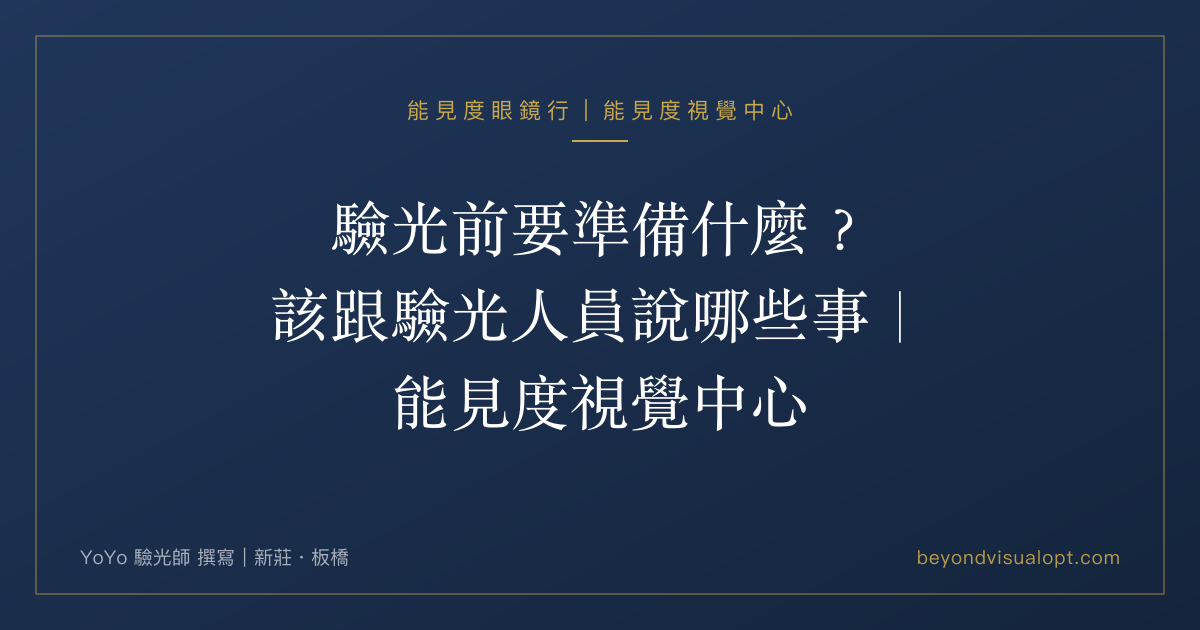
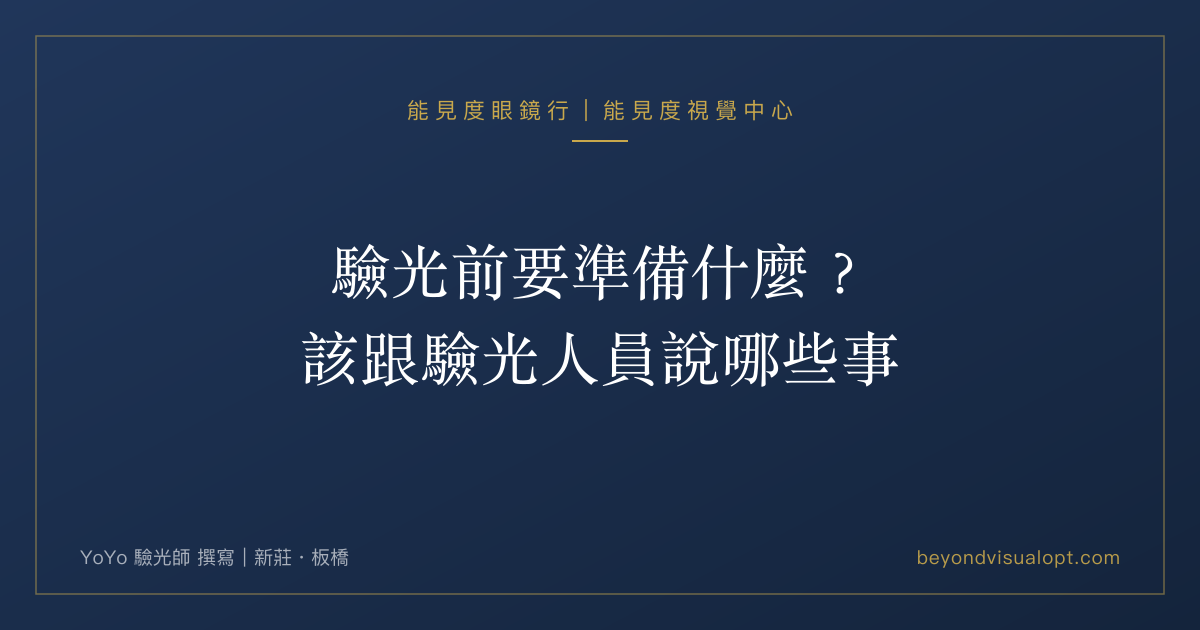
驗光分類第 1 步：9 篇調標題（FAQ 改 ### Q，6 篇共 24 題 FAQ 首度進 schema）＋已上線錯誤急修——兒童法規句補施行細則 §6 首次配鏡須醫師確診（7 頁）、拿掉貶損眼科句與暗示門市量眼壓視野、健保列更正、病名改功能描述、YoYo 親自執行句、全站「免費回店調整」改「取件後的鏡架調整不另外收費」、法條誤引更正（證書字號揭示 §19、眼鏡行不能驗光 §9）、/faq/ 兒童題拿掉離焦效能暗示。「與眼科醫師協同」5 處待老闆確認未動。編審🟡→法務🟡→交叉快篩🟢

Changed region(s): [[0.2158, 0.3016, 0.7708, 0.6937]]

diff --git a/src/content/blog/eye-exam-preparation-tips.md b/src/content/blog/eye-exam-preparation-tips.md
@@ -1,5 +1,5 @@
 ---
-title: "驗光前要準備什麼？該跟驗光人員說哪些事｜能見度視覺中心"
+title: "驗光前要準備什麼？該跟驗光人員說哪些事"
 date: 2026-07-21
 tag: "驗光知識"
 excerpt: "一次好的驗光，一半靠驗光人員的專業，一半靠你把資訊講清楚。帶舊眼鏡、說清楚你每天怎麼用眼、把不舒服具體描述出來——這些準備，讓驗光從「猜」變成「對症」。新莊、板橋能見度視覺中心，附上驗光前檢查清單，教你怎麼當一個「好被驗」的顧客。"
@@ -14,7 +14,7 @@ keywords: "驗光前準備,驗光注意事項,驗光要帶什麼,驗光前檢查
 
 所以這篇把「怎麼當一個好被驗的顧客」講白。花五分鐘做點準備，你這次驗光的品質，會差很多。
 
-### 驗光前檢查清單
+## 驗光前檢查清單
 
 | 類別 | 準備什麼 |
 |---|---|
@@ -24,13 +24,13 @@ keywords: "驗光前準備,驗光注意事項,驗光要帶什麼,驗光前檢查
 | 隱形眼鏡族 | 驗光當天的配戴狀況，最好提前取下讓角膜休息一段時間 |
 | 特別提醒 | 慢性病、近期眼睛治療史、正在點的眼藥，主動告知 |
 
-## 帶什麼：舊眼鏡就是你的「病歷」
+## 驗光要帶什麼：舊眼鏡與隱形眼鏡度數盒
 
-**把現在戴的眼鏡帶來，尤其是那副「覺得不好戴」的。** 驗光人員把它放上儀器一驗，馬上知道你現在的度數、跟你眼睛現況差多遠、上一副是欠矯還是過矯。這等於直接讀到你的視覺病歷，比從零開始省事、也準得多，連你嫌棄想淘汰的那副都值得帶，因為「哪裡不對」本身就是線索。
+**把現在戴的眼鏡帶來，尤其是那副「覺得不好戴」的。** 驗光人員把它放上儀器一驗，馬上知道你現在的度數、跟你眼睛現況差多遠、上一副是欠矯還是過矯。這等於直接讀到你上一副眼鏡的實際度數，比從零開始省事、也準得多，連你嫌棄想淘汰的那副都值得帶，因為「哪裡不對」本身就是線索。
 
 **隱形眼鏡族，把度數盒也帶上。** 隱形眼鏡和眼鏡的度數不能直接互抄（因為頂點距離不同，貼在角膜上和掛在鼻樑前需要的度數不一樣），但你現在戴的隱形度數，仍是很好的參考起點。
 
-## 想清楚也說清楚：你的「用眼場景」
+## 跟驗光人員說清楚你的用眼場景
 
 這是最多人忽略、卻最影響配鏡方向的一塊。同樣的度數，一個整天盯螢幕的人和一個常開車跑外務的人，最適合的鏡片設計完全不同。所以請具體地說：
 
@@ -39,9 +39,9 @@ keywords: "驗光前準備,驗光注意事項,驗光要帶什麼,驗光前檢查
 - **閱讀與近距離**：看書、看手機、做手工，這些近距離活動多不多？
 - **最想解決的那一件事**：如果這副眼鏡只能改善一個情境，你最想解決哪個？
 
-講得越具體越好。「我下午看電腦特別累、字會有點糊」，比「我眼睛不太舒服」有用一百倍。完整驗光的第一步就是這個：先問診、再量測，度數才配得對生活。想看完整驗光每一步在忙什麼，可以參考：[配眼鏡前需要先看眼科嗎？](/blog/eye-exam-before-glasses/)裡對驗光流程的說明。
+講得越具體越好。「我下午看電腦特別累、字會有點糊」，比「我眼睛不太舒服」有用一百倍。完整驗光的第一步就是這個：先問診、再量測，度數才配得對生活。想看完整驗光每一步在忙什麼，可以參考：[驗光 10 分鐘和 1 小時，差在哪裡？](/blog/eye-exam-duration-difference/)。
 
-## 怎麼描述「不舒服」：把感覺翻譯成線索
+## 眼睛不舒服，怎麼描述給驗光人員聽
 
 「不舒服」三個字，驗光人員很難直接下手。試著把它拆得更具體，用這幾個角度描述：
 
@@ -52,32 +52,32 @@ keywords: "驗光前準備,驗光注意事項,驗光要帶什麼,驗光前檢查
 
 最後這一點特別有用。如果你發現「遮住一隻眼反而比兩眼一起看舒服」，很可能牽涉到兩眼協同的問題，而不只是單眼度數。完整驗光會特別評估雙眼視覺功能，就是為了接住這種狀況。兩眼怎麼合作、為什麼要一起評估，我們拆在這篇：[「雙眼視覺」是什麼？兩隻眼睛怎麼合作](/blog/binocular-vision/)。
 
-## 幾個要主動告知的重點
+## 驗光前要主動告知的事
 
 - **隱形眼鏡配戴者**：軟式隱形眼鏡建議驗光前提早取下、讓角膜休息一段時間，硬式所需時間更長；當天的配戴狀況也請主動說，量測才準。還有一點要提醒，一般隱形眼鏡的驗配依《驗光人員法》有其規範：15 歲以下須於眼科醫師指導下、未滿 6 歲不得驗配。
 - **慢性病與用藥**：糖尿病等慢性病、正在點的眼藥、近期眼睛的治療或手術史，請主動告知。這些會影響我們的判斷與分流。
 - **警訊要立刻講**：如果你最近有視力突然變差、看東西有黑影或閃光、眼睛紅腫疼痛，這些不是配鏡能處理的範疇，請儘速至眼科就醫，別等驗光。
-- **孩子的驗光**：依《驗光人員法》，15 歲以下學童的驗光應於眼科醫師指導下進行；未滿 6 歲的幼童請先至眼科由醫師評估。帶孩子來之前，先想好平常看遠看近的狀況、學校座位、用 3C 的時間，這些都是有用的資訊。
+- **孩子的驗光**：未滿 6 歲的幼童，驗光人員依《驗光人員法》不得為其驗光，請由眼科醫師檢查；6～15 歲第一次驗光配鏡，須先經醫師確診為非假性近視，之後的驗光依法於眼科醫師指導下進行；超過 15 歲可以直接驗光。帶孩子來之前，先想好平常看遠看近的狀況、學校座位、用 3C 的時間，這些都是有用的資訊。
 
 做好這些準備，你會發現驗光變成一場「對話」，而不是被動受檢。而一位好的驗光人員，會接住你給的每一條線索、問對下一個問題。[選好的鏡片，不如選好的驗光師](/guide/why-optometrist-matters/)，說的就是這個。
 
-## 常見問題
+## 驗光前準備常見問題
 
-**Q1：驗光前一定要帶舊眼鏡嗎？沒帶會怎樣？**
+### Q：驗光前一定要帶舊眼鏡嗎？沒帶會怎樣？
 
-強烈建議帶，尤其是你覺得不好戴的那副。舊眼鏡等於你的視覺病歷，一驗就知道你現在的度數、變化了多少、上一副哪裡不對。沒帶不是不能驗，但驗光人員少了一個重要參考，得多花時間從頭摸索。度數盒、隱形眼鏡包裝也一併帶上。
+強烈建議帶，尤其是你覺得不好戴的那副。舊眼鏡本身就是一份現成的度數參考，一驗就知道你現在的度數、變化了多少、上一副哪裡不對。沒帶不是不能驗，但驗光人員少了一個重要參考，得多花時間從頭摸索。度數盒、隱形眼鏡包裝也一併帶上。
 
-**Q2：驗光前需要讓眼睛休息嗎？**
+### Q：驗光前需要讓眼睛休息嗎？
 
 有幫助。驗光前避免長時間近距離用眼、睡眠充足，能減少睫狀肌過度緊繃造成的度數偏深。隱形眼鏡族則建議提早取下讓角膜恢復（軟式一段時間、硬式更久），當天配戴狀況也請主動說。
 
-**Q3：我不知道怎麼形容我的不舒服，怎麼辦？**
+### Q：我不知道怎麼形容我的不舒服，怎麼辦？
 
 用「什麼時候、哪種感覺、哪個情境」三個角度去拆就好。例如「下午看電腦、字會糊、還有點脹」。再加一句「遮一隻眼會不會比較舒服」，就是很有價值的線索。你不需要懂術語，只要把日常的感受具體說出來，剩下的翻譯交給驗光人員。
 
-**Q4：帶小孩驗光要準備什麼？**
+### Q：帶小孩驗光要準備什麼？
 
-先想好孩子平常看遠看近的狀況、學校座位遠近、每天用 3C 多久、有沒有瞇眼或湊很近看。這些日常觀察對評估很有幫助。同時提醒：依《驗光人員法》，15 歲以下學童的驗光應於眼科醫師指導下進行，未滿 6 歲的幼童請先至眼科由醫師評估，我們會在這個分工下協同追蹤。
+先想好孩子平常看遠看近的狀況、學校座位遠近、每天用 3C 多久、有沒有瞇眼或湊很近看。這些日常觀察對評估很有幫助。同時提醒：未滿 6 歲的幼童，驗光人員依《驗光人員法》不得為其驗光，請由眼科醫師檢查；6～15 歲第一次驗光配鏡，須先經醫師確診為非假性近視，之後的驗光依法於眼科醫師指導下進行，我們會在這個分工下協同追蹤；超過 15 歲可以直接驗光。
 
 ---
 

diff --git a/src/content/blog/same-prescription-different-feel.md b/src/content/blog/same-prescription-different-feel.md
@@ -1,5 +1,5 @@
 ---
-title: "度數一樣，為什麼兩副眼鏡戴起來差這麼多？｜能見度視覺中心"
+title: "度數一樣，為什麼兩副眼鏡戴起來差這麼多？"
 date: 2026-07-21
 tag: "驗光知識"
 excerpt: "兩副眼鏡度數欄位一模一樣，戴起來卻一副舒服、一副頭暈？因為度數只是處方紙上的一行，散光軸向、瞳距瞳高、頂點距離、傾斜角、鏡框貼合這些參數，才決定它戴在你臉上跑出什麼結果。新莊、板橋能見度視覺中心，把度數之外的變因講清楚。"
@@ -16,7 +16,7 @@ keywords: "眼鏡度數一樣不舒服,同度數眼鏡差別,配鏡參數,散光
 
 打個比方，處方紙上那行度數，比較像食譜裡的「鹽 5 克」。同樣 5 克鹽，火候、下鍋順序、鍋子大小不一樣，端出來的味道就是不同。眼鏡也是這樣，度數對了只是及格線，真正決定體感的，是度數之外那一整套配鏡參數，有沒有配對到你身上。
 
-### 30 秒速讀：度數之外，這些參數也在決定戴起來舒不舒服
+## 同度數眼鏡差在哪：度數之外的 7 個配鏡參數
 
 | 參數 | 它在管什麼 | 沒對好會怎樣 |
 |---|---|---|
@@ -28,17 +28,25 @@ keywords: "眼鏡度數一樣不舒服,同度數眼鏡差別,配鏡參數,散光
 | 基弧 | 鏡片本身的彎弧 | 換弧差太多，周邊會覺得怪 |
 | 鏡框貼合 | 鏡框在臉上戴穩、戴正 | 一直滑、一邊高，前面全部白調 |
 
-## 同一組度數，這些變因各自在搞什麼鬼
+## 配鏡參數怎麼影響戴起來的感覺
 
-**散光軸向：差幾度就有感。** 散光不只有「幾度」，還有「往哪個方向」。軸向就是那個方向。同樣 -1.00 的散光，軸向 90 度和 100 度是兩回事；補正的角度沒轉對，看直線會微微歪、看字會有一層說不上來的糊。兩副眼鏡如果一副軸向抓得準、一副差了十幾度，度數欄位看起來一樣，戴起來完全兩種世界。
+### 散光軸向：差幾度就有感
 
-**瞳距與瞳高：度數「對在哪」。** 每片鏡片都有一個光學中心，那是它光學表現最乾淨的一點，配鏡時要對準你的瞳孔。左右對位靠瞳距（PD），上下落點靠瞳高。對不準，視線就會從鏡片邊緣穿過去，產生稜鏡效應，大腦得多花力氣去代償。很多人「換新眼鏡總覺得哪裡怪」，光學上就是卡在這裡。想深入了解可以看這篇：[瞳距（PD）是什麼？量錯了會怎樣](/blog/pupillary-distance-pd/)。
+散光不只有「幾度」，還有「往哪個方向」。軸向就是那個方向。同樣 -1.00 的散光，軸向 90 度和 100 度是兩回事；補正的角度沒轉對，看直線會微微歪、看字會有一層說不上來的糊。兩副眼鏡如果一副軸向抓得準、一副差了十幾度，度數欄位看起來一樣，戴起來完全兩種世界。
 
-**頂點距離：鏡片離眼睛多遠。** 鏡片掛在鼻樑前、離眼球有一小段空隙，這段距離會左右你實際感受到的度數，度數越高、影響越明顯。同一張處方配在兩副落點不同的鏡框上，跑出來的有效度數可以不一樣。細節在這篇：[「頂點距離」是什麼？為什麼高度數眼鏡要算它](/blog/vertex-distance/)。
+### 瞳距與瞳高：度數對在哪
 
-**前傾角、基弧、鏡框貼合：藏在最後、卻最有感。** 鏡框往前傾幾度、鏡片本身多彎、戴在你臉上有沒有戴正戴穩，這些沒調到位，前面量得再準也會被打折。鏡框一直往下滑、一邊高一邊低，等於每天都在用「參數已經跑掉」的狀態看世界。
+每片鏡片都有一個光學中心，那是它光學表現最乾淨的一點，配鏡時要對準你的瞳孔。左右對位靠瞳距（PD），上下落點靠瞳高。對不準，視線就會從鏡片邊緣穿過去，產生稜鏡效應，大腦得多花力氣去代償。很多人「換新眼鏡總覺得哪裡怪」，光學上就是卡在這裡。想深入了解可以看這篇：[瞳距（PD）是什麼？配眼鏡量錯會怎樣](/blog/pupillary-distance-pd/)。
 
-## 一個實際情境：多焦點使用者的 2mm
+### 頂點距離：鏡片離眼睛多遠
+
+鏡片掛在鼻樑前、離眼球有一小段空隙，這段距離會左右你實際感受到的度數，度數越高、影響越明顯。同一張處方配在兩副落點不同的鏡框上，跑出來的有效度數可以不一樣。細節在這篇：[頂點距離是什麼？高度數配眼鏡為什麼要算它](/blog/vertex-distance/)。
+
+### 前傾角、基弧、鏡框貼合：藏在最後、卻最有感
+
+鏡框往前傾幾度、鏡片本身多彎、戴在你臉上有沒有戴正戴穩，這些沒調到位，前面量得再準也會被打折。鏡框一直往下滑、一邊高一邊低，等於每天都在用「參數已經跑掉」的狀態看世界。
+
+## 多焦點瞳高差 2mm，看螢幕會怎樣
 
 講個門市常見的狀況。一位每天緊盯螢幕超過 10 小時、又開始需要多焦點的上班族，兩副眼鏡度數與加入度抄起來一樣，但一副瞳高量得準、一副高了 2mm。**在多焦點上，瞳高差這 2mm，代表看近的清晰區整個往上或往下挪了一截。** 他低頭看螢幕時，剛好落在過渡帶而不是近用區，於是「明明度數對，看螢幕就是要一直找角度、下午特別累」。這不是度數問題，是這 2mm 沒對到他每天真正在用的那個視線落點。
 
@@ -46,21 +54,21 @@ keywords: "眼鏡度數一樣不舒服,同度數眼鏡差別,配鏡參數,散光
 
 說到底，度數是驗光量出來的「答案」，但要把這個答案精準地放進你臉上這副眼鏡，靠的是配鏡端一整套個人化量測與調整。所以我們才會一直講那句話：[選好的鏡片，不如選好的驗光師](/guide/why-optometrist-matters/)，因為決定成敗的，往往是這些沒人跟你提、卻天天有感的參數。
 
-## 常見問題
+## 同度數眼鏡常見問題
 
-**Q1：兩副眼鏡度數一樣，戴起來卻差很多，是哪一副配錯了嗎？**
+### Q：兩副眼鏡度數一樣，戴起來卻差很多，是哪一副配錯了嗎？
 
 不一定是誰配錯。度數一樣只代表「處方那一行」相同，但散光軸向、瞳距、瞳高、頂點距離、前傾角、鏡框貼合這些參數不一樣，戴起來就會不一樣。與其自己猜哪副錯，不如兩副都帶來給驗光人員量一輪，比對參數差在哪，才知道舒服那副贏在哪、不舒服那副卡在哪。
 
-**Q2：我照舊眼鏡度數重配一副，為什麼反而不習慣？**
+### Q：我照舊眼鏡度數重配一副，為什麼反而不習慣？
 
 因為你「照抄」的只有度數，沒抄到舊眼鏡那一整套配戴參數。新鏡框大小、形狀、戴在臉上的位置都變了，瞳高、頂點距離、前傾角跟著改變，同一組度數落在新鏡框上，體感自然不同。所以重配一副眼鏡，配鏡端的量測真的省不得。
 
-**Q3：度數越高，是不是這些參數越重要？**
+### Q：度數越高，是不是這些參數越重要？
 
 是的。頂點距離、瞳距的偏差，都會隨度數升高而被放大。低度數時稍微不準你可能沒感覺，度數一高，同樣的偏差馬上有感。所以高度數族群對配鏡參數的精準度特別敏感，也特別值得找流程完整的驗光人員把每個參數量準。
 
-**Q4：這些參數我自己量得出來嗎？**
+### Q：這些參數我自己量得出來嗎？
 
 不建議自己量。瞳距、瞳高、頂點距離、前傾角這些，都要在你選定鏡框、把鏡框戴到平常習慣的位置之後，由驗光人員配合實際配戴狀態量測，才反映得出真實使用狀況。你要做的，是把鏡框戴到你平常會戴的位置，讓量測貼近日常。
 

diff --git a/src/content/blog/eye-strain-see-doctor.md b/src/content/blog/eye-strain-see-doctor.md
@@ -10,7 +10,7 @@ keywords: "眼睛痠痛掛眼科,眼睛疲勞驗光,新莊驗光,板橋配眼鏡
 
 ## 眼睛痠痛疲勞，先分流：有這些警訊請掛眼科，沒有的話驗光所幫你找原因
 
-先把話講在前頭。眼睛痠、脹、累，如果同時出現紅腫、疼痛、視力突然變差、看東西有黑影或閃光，這些是身體在提醒你「該看醫師了」，請儘速至眼科就醫，別拖。但如果只是「盯了一整天螢幕、傍晚眼睛又痠又澀、只想閉起來休息」這種，通常跟眼睛的健康沒有直接關係，而是視覺在「過勞」。這種狀況，來驗光所做一次完整視覺評估，多半能把原因找出來。
+先把話講在前頭。眼睛痠、脹、累，如果同時出現紅腫、疼痛、視力突然變差、看東西有黑影或閃光，這些是身體在提醒你「該看醫師了」，請儘速至眼科就醫，別拖。但如果只是「盯了一整天螢幕、傍晚眼睛又痠又澀、只想閉起來休息」這種，未必是眼睛生病，也可能是視覺端的負擔太重。這種狀況，可以先來驗光所做一次完整視覺評估，從視覺端找原因。
 
 先講清楚我們是誰：能見度是合法立案的驗光所（比泱驗光所・能見度驗光所），不是眼科診所，沒有醫師駐診，也不做疾病的診斷與治療。我們能做的，就是把「你為什麼一用眼就累」這件事，從視覺的角度拆開來看。
 
@@ -25,25 +25,25 @@ keywords: "眼睛痠痛掛眼科,眼睛疲勞驗光,新莊驗光,板橋配眼鏡
 | 看遠看近切換吃力、傍晚特別容易累 | 可到驗光所做完整視覺評估 |
 | 換了新眼鏡反而更容易累、頭暈 | 可到驗光所檢查度數與配鏡參數 |
 
-眼睛用久了會痠，很多人以為「累了休息一下就好」，但如果天天都這樣、休息也沒改善，背後常常有幾個視覺端的原因：度數跟現在的用眼需求對不上（配鏡時看遠很準，但你整天在看近）、雙眼協調在硬撐（兩眼對焦與聚合的分工出了小狀況）、或是老花悄悄開始、近距離越看越吃力。這些都不是病，是視覺條件的問題，剛好就是驗光人員的守備範圍。
+眼睛用久了會痠，很多人以為「累了休息一下就好」，但如果天天都這樣、休息也沒改善，背後常常有幾個視覺端的原因：度數跟現在的用眼需求對不上（配鏡時看遠很準，但你整天在看近）、雙眼協調在硬撐（兩眼對焦與聚合的分工出了小狀況）、或是老花悄悄開始、近距離越看越吃力。這些屬於視覺條件的範圍，剛好是驗光人員可以評估的；痠澀一直不改善，或懷疑是眼睛疾病，請給眼科醫師檢查。
 
-老實講：我們不「治療疲勞」，也沒有哪一副眼鏡能把疲勞「消除」掉。我們做的是評估與找原因，把你的用眼型態、度數狀況、雙眼協調量一輪，看看視覺端有沒有可以調整的地方。如果量出來一切正常、痠累的原因另有他處，或過程中發現視力異常無法有效補正，我們會依《驗光人員法》把你轉介給眼科醫師，而不是硬留你配眼鏡。告訴你「這件事該給醫師看」，也是專業的一部分。
+老實講：我們不「治療疲勞」，也沒有哪一副眼鏡能把疲勞「消除」掉。我們做的是評估與找原因，把你的用眼型態、度數狀況、雙眼協調量一輪，看看視覺端有沒有可以調整的地方。如果量出來一切正常、痠累的原因另有他處，或過程中發現視力異常無法有效補正，我們會依《驗光人員法》把你轉介給眼科醫師，而不是硬留你配眼鏡。
 
-## 常見問題
+## 眼睛痠痛疲勞常見問題
 
-**Q1. 眼睛痠痛，一定要先看眼科嗎？**
+### Q：眼睛痠痛，一定要先看眼科嗎？
 
-看有沒有警訊。如果痠痛同時伴隨紅腫、明顯疼痛、分泌物、畏光，或視力突然變差，請直接掛眼科，這些屬於眼睛疾病的範疇，需要醫師診斷。如果只是長時間用眼後的痠澀疲勞、沒有上述狀況，可以先來驗光所做完整視覺評估，從度數與雙眼協調著手找原因。真的拿不準，先透過 LINE 描述狀況，我們會誠實告訴你該去哪。
+看有沒有警訊。如果痠痛同時伴隨紅腫、明顯疼痛、分泌物、畏光，或視力突然變差，請直接掛眼科，這些屬於眼睛疾病的範疇，需要醫師診斷。如果只是長時間用眼後的痠澀疲勞、沒有上述狀況，可以先來驗光所做完整視覺評估，從度數與雙眼協調著手找原因。真的拿不準，先透過 LINE 描述狀況，我們幫你判斷先去哪一邊。
 
-**Q2. 驗光所能幫我的眼睛疲勞做什麼？**
+### Q：驗光所能幫我的眼睛疲勞做什麼？
 
 我們不做治療，也不會宣稱哪一副眼鏡能把疲勞消掉。驗光人員做的是評估與找原因：量度數、看用眼習慣、檢查雙眼協調，看看視覺端有沒有可以調整的地方。有時候是度數該更新，有時候是用眼距離配不上鏡片設計。把配鏡參數調對，用起來自然比較不吃力，但那是把視覺條件配對好，不是治療。
 
-**Q3. 我常盯螢幕，眼睛痠是正常的嗎？需要處理嗎？**
+### Q：我常盯螢幕，眼睛痠是正常的嗎？需要處理嗎？
 
 短時間用眼後稍微痠、休息一下就好，是常見的。但如果每天固定痠、休息也不太緩解，甚至影響工作，就值得做一次視覺評估——尤其是長時間看近的工作型態，度數與雙眼協調的細節很容易被忽略。評估不代表一定要配眼鏡，我們也可能只是提醒你調整用眼習慣與距離。
 
-**Q4. 檢查後發現不是度數問題，你們會怎麼做？**
+### Q：檢查後發現不是度數問題，你們會怎麼做？
 
 如果量完發現度數正常、痠累的原因不在視覺端，或視力異常無法用鏡片有效補正，我們會依《驗光人員法》建議轉介眼科醫師做進一步檢查。驗光所的責任不只是幫你配一副眼鏡，也包括在該就醫的時候，誠實把你導向對的門。
 

diff --git a/src/content/blog/eye-exam-before-glasses.md b/src/content/blog/eye-exam-before-glasses.md
@@ -24,10 +24,11 @@ keywords: "配眼鏡要先看眼科嗎,配眼鏡前檢查,驗光所還是眼科,
 
 | 你的情況 | 建議 | 說明 |
 |---------|------|------|
-| 成人、度數變了想換一副眼鏡 | 可直接來驗光所 | 單純屈光問題，完整驗光即可 |
+| 超過 15 歲、度數變了想換一副眼鏡 | 可直接來驗光所 | 單純屈光問題，完整驗光即可 |
 | 長時間看螢幕想做視覺評估、配副合適的眼鏡 | 可直接來驗光所 | 視覺習慣分析與驗配 |
-| 6 歲以上學童的視力評估與度數追蹤 | 可來驗光所 | 過程中發現異常會建議轉介眼科 |
-| **未滿 6 歲**的幼童第一次檢查視力 | 請先至眼科 | 依法屬醫療評估，由眼科醫師執行 |
+| 6～15 歲學童第一次驗光配鏡 | 請先至眼科 | 須先經醫師確診為非假性近視 |
+| 6～15 歲學童、已經配過眼鏡 | 可來驗光所 | 依法於眼科醫師指導下驗光；過程中發現異常會建議轉介眼科 |
+| **未滿 6 歲**的幼童要驗光配鏡 | 請先至眼科 | 驗光人員依法不得為未滿 6 歲者驗光，請由眼科醫師檢查 |
 | 近期有**眼疾治療或手術史** | 建議先回眼科 | 由醫師確認眼睛狀況已穩定 |
 | 怎麼配都看不清、**視力無法補正** | 建議先看眼科 | 可能不只是度數問題，需醫師檢查 |
 | **糖尿病等慢性病**、沒做過眼底追蹤 | 建議先至眼科 | 眼底追蹤可能需散瞳，屬醫療行為，請洽眼科 |
@@ -40,7 +41,7 @@ keywords: "配眼鏡要先看眼科嗎,配眼鏡前檢查,驗光所還是眼科,
 
 因為配眼鏡的前提，是**眼睛本身的健康狀況已經清楚**。驗光所量的是「視覺」，度數、清晰度、雙眼怎麼協調這些；眼睛本身健不健康，那是眼科醫師在看的。這兩件事對大多數人來說本來就分開，配鏡不用先過眼科這一關。
 
-但上面那幾種情況不一樣。比方說，未滿 6 歲的幼童，依《驗光人員法》屬於醫療評估的範疇，請先由眼科醫師檢查；6 歲以上、15 歲以下學童的驗光，依法應於眼科醫師指導下進行，我們也依此與眼科醫師協同合作；有慢性病、又還沒做過眼底追蹤的人，眼底檢查（可能需要散瞳，屬醫療行為，請洽眼科）最好先讓醫師看過，我們再幫你配鏡。這不是把客人往外推，而是把該由醫師把關的部分交給醫師，你戴上眼鏡才安心。
+但上面那幾種情況不一樣。比方說，未滿 6 歲的幼童，驗光人員依《驗光人員法》不得為其驗光，請由眼科醫師檢查；6～15 歲學童第一次驗光配鏡，須先經醫師確診為非假性近視，之後的驗光依法應於眼科醫師指導下進行，我們也依此與眼科醫師協同合作；有慢性病、又還沒做過眼底追蹤的人，眼底檢查（可能需要散瞳，屬醫療行為，請洽眼科）最好先讓醫師看過，我們再幫你配鏡。這不是把客人往外推，而是把該由醫師把關的部分交給醫師，你戴上眼鏡才安心。
 
 ---
 
@@ -64,7 +65,7 @@ keywords: "配眼鏡要先看眼科嗎,配眼鏡前檢查,驗光所還是眼科,
 
 **Q：小孩要配第一副眼鏡，先看眼科還是驗光所？**
 
-未滿 6 歲的幼童，請先至眼科，由醫師進行醫療評估；6 歲以上的學童，可以來驗光所做視力評估與度數追蹤，依《驗光人員法》，15 歲以下學童的驗光應於眼科醫師指導下進行，我們也依此與眼科醫師協同追蹤，過程中發現異常，我們會建議轉由眼科醫師進一步檢查。兩邊是分工合作，不是二選一。
+未滿 6 歲的幼童，驗光人員依法不得為其驗光，請由眼科醫師檢查；6～15 歲第一次驗光配鏡，須先經醫師確診為非假性近視；之後的驗光，依《驗光人員法》15 歲以下應於眼科醫師指導下進行，我們也依此與眼科醫師協同追蹤，過程中發現異常，我們會建議轉由眼科醫師進一步檢查；超過 15 歲可以直接找驗光人員。每個年齡該先去哪，整理成對照在[小孩視力不好，先看眼科還是先配眼鏡？](/blog/child-vision-check-where/)。
 
 **Q：我有糖尿病，配眼鏡前要注意什麼？**
 

diff --git a/src/content/blog/blurry-vision-see-doctor.md b/src/content/blog/blurry-vision-see-doctor.md
@@ -1,5 +1,5 @@
 ---
-title: "眼睛突然模糊要馬上看眼科嗎？突然 vs 慢慢，能見度視覺中心教你分流"
+title: "眼睛突然模糊要馬上看眼科嗎？突然和慢慢變糊，該去的地方不一樣"
 date: 2026-07-21
 tag: "驗光知識"
 excerpt: "眼睛突然一片模糊，該衝眼科還是先驗光？關鍵在分辨「突然」還是「慢慢」。能見度視覺中心（新莊、板橋）誠實分流：突然驟降請儘速就醫，慢慢變糊多半是度數變了，來驗光所完整驗光就能釐清。"
@@ -8,7 +8,7 @@ seoDescription: "眼睛模糊分兩種：突然驟降、單眼看不清、視野
 keywords: "眼睛突然模糊,眼睛模糊要看眼科嗎,視力模糊怎麼辦,新莊驗光,板橋配眼鏡,能見度眼鏡,眼科分流"
 ---
 
-## 眼睛突然模糊，要馬上看眼科嗎？先分清楚是「突然」還是「慢慢」
+## 眼睛模糊先分兩種：突然還是慢慢
 
 先給結論：**要看是哪一種模糊。**
 
@@ -20,7 +20,7 @@ keywords: "眼睛突然模糊,眼睛模糊要看眼科嗎,視力模糊怎麼辦,
 
 ---
 
-## 30 秒對照：你的模糊該去哪？
+## 眼睛模糊對照表：哪種先就醫、哪種先驗光
 
 | 你的情況 | 該去哪 | 簡單說明 |
 |---------|--------|---------|
@@ -35,7 +35,7 @@ keywords: "眼睛突然模糊,眼睛模糊要看眼科嗎,視力模糊怎麼辦,
 
 ---
 
-## 為什麼「突然」和「慢慢」差這麼多？
+## 突然和慢慢變模糊，為什麼要分開處理
 
 差別在**時間**。
 
@@ -47,7 +47,7 @@ keywords: "眼睛突然模糊,眼睛模糊要看眼科嗎,視力模糊怎麼辦,
 
 ---
 
-## 來驗光所，我們會怎麼幫你把模糊查清楚？
+## 慢慢變模糊，驗光時會做什麼
 
 如果你的狀況落在「慢慢變糊」這一邊，一次完整驗光大致會走過這些環節：
 
@@ -59,21 +59,21 @@ keywords: "眼睛突然模糊,眼睛模糊要看眼科嗎,視力模糊怎麼辦,
 
 ---
 
-## 常見問題
+## 眼睛模糊常見問題
 
-**Q：眼睛突然一片模糊，可以先來驗光所看看嗎？**
+### Q：眼睛突然一片模糊，可以先來驗光所看看嗎？
 
 如果是突然發生、單眼驟降、或視野缺一塊，建議直接掛眼科。我們是驗光所不是眼科，這類狀況需要眼科醫師檢查與處置；判斷是配鏡問題後，再來找我們把眼鏡配好。
 
-**Q：看遠越來越模糊，是度數加深還是眼睛有問題？**
+### Q：看遠越來越模糊，是度數加深還是眼睛有問題？
 
 慢慢地看遠變吃力，多半是近視或散光度數變化，來驗光所做完整驗光就能量清楚、重新配準。若過程中發現視力無法有效補正，我們會依法建議轉介眼科做進一步檢查。
 
-**Q：一直覺得看近的東西模糊、看久了更糊，是老花嗎？**
+### Q：一直覺得看近的東西模糊、看久了更糊，是老花嗎？
 
 40 歲上下開始覺得看近吃力、手機要拿遠，是很常見的老花變化，可以來驗光所完整驗光確認並配置合適的鏡片。讓驗光人員實際量過最準；若量測中發現異常，一樣會依法轉介眼科。
 
-**Q：新莊、板橋哪裡可以做完整驗光？**
+### Q：新莊、板橋哪裡可以做完整驗光？
 
 能見度視覺中心在新莊、板橋各有一間門市，由持照驗光人員執行完整驗光與配鏡。想先確認該掛眼科還是來驗光，也可以先跟我們聊聊，我們會照實分流。
 
@@ -85,7 +85,7 @@ keywords: "眼睛突然模糊,眼睛模糊要看眼科嗎,視力模糊怎麼辦,
 
 ---
 
-所以回到最前面那個分法：突然的，先去眼科；慢慢的，可以先來驗光所。
+所以分界其實很簡單：突然的，先去眼科；慢慢的，可以先來驗光所。
 
 會這樣分，是因為「突然」通常代表眼睛裡有東西改變了，那是醫療範疇，時間點很重要；「慢慢」多半是度數在動，量一量就知道。記不住細節沒關係，記住「突然就掛號」這五個字，大方向就不會錯。
 
